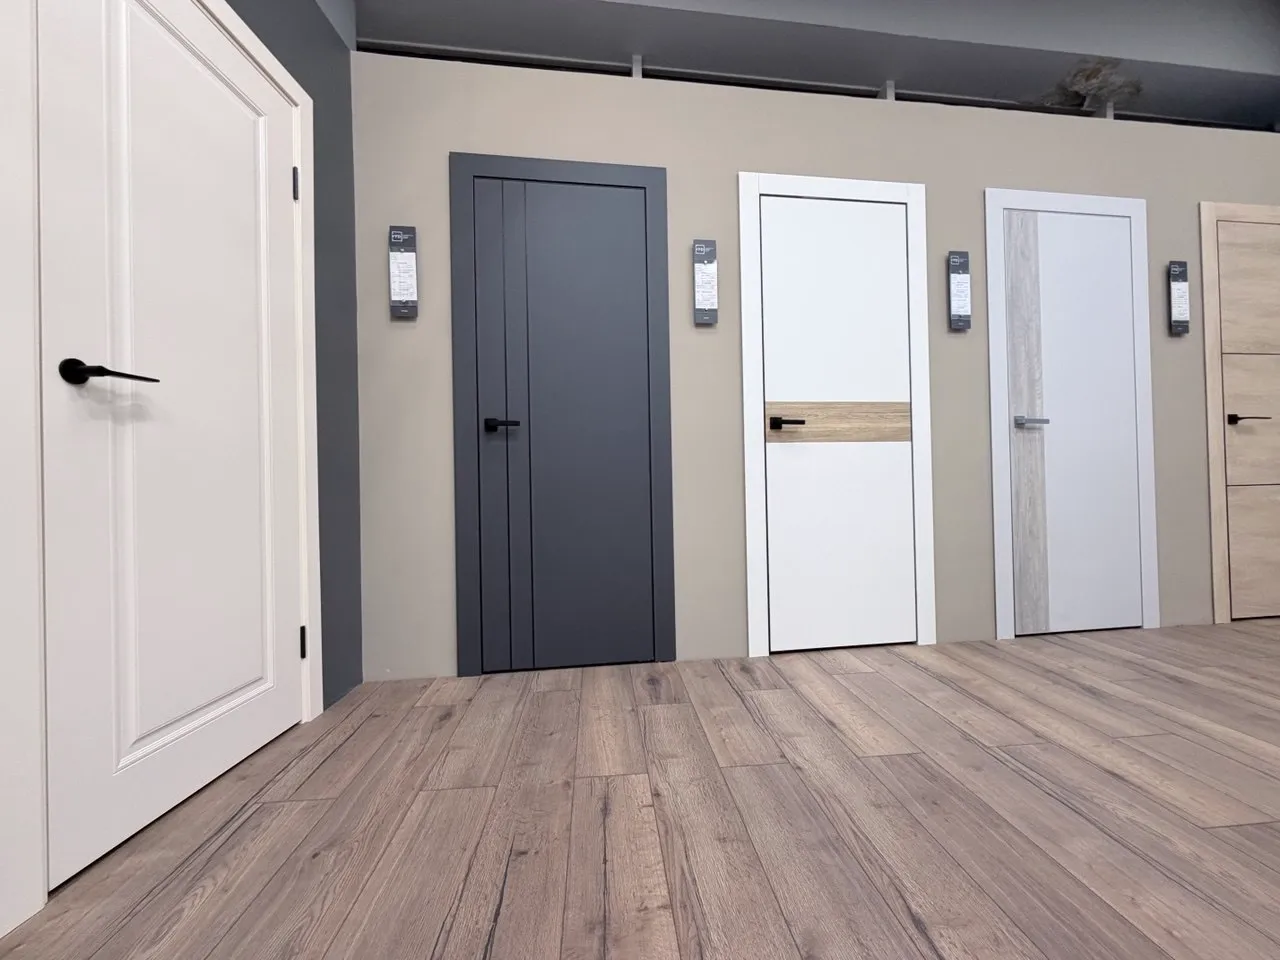
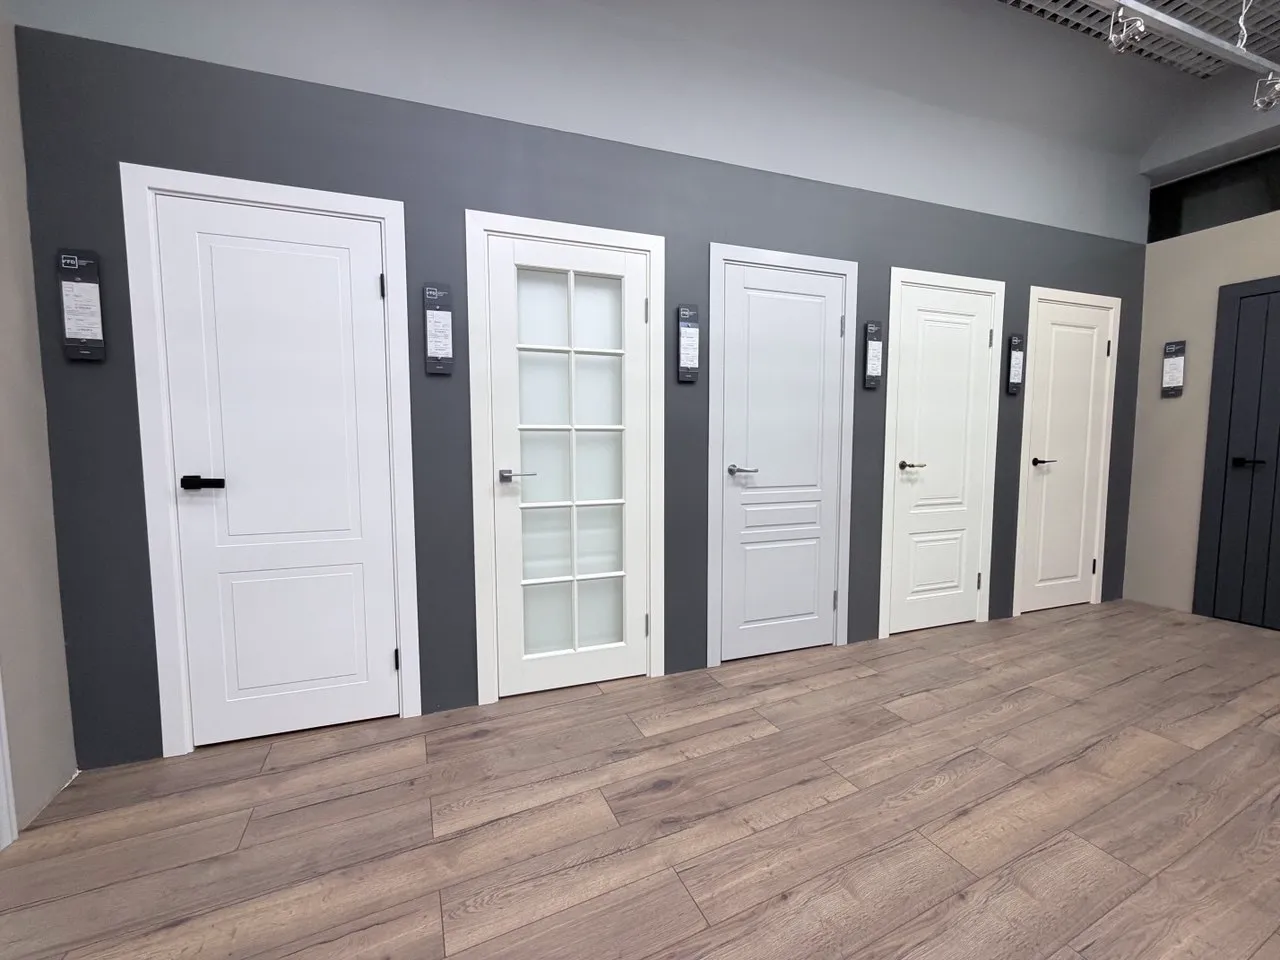
fix(контакты): из галереи салона убраны фото 3, 4, 6; плашка «Консультация» снята вместе с фото

diff --git a/src/data/contacts-page.ts b/src/data/contacts-page.ts
@@ -88,15 +88,12 @@ const { mall, street, floorIn } = SITE.address
 const SALON_TEXT: Record<number, { alt: string; chip?: string }> = {
   1: { alt: `Вход в салон ${SITE.studioNameOf}: вывеска «Фабрика дверей VFD» ${floorIn} ${mall}, ${street}`, chip: 'Вход' },
   2: { alt: `Вход в салон ${SITE.studioNameOf} с галереи ${mall}: стеклянная дверь в зелёной раме` },
-  3: { alt: `Вид в салон от входа: образцы межкомнатных дверей, стенд дверных ручек и стол менеджера в ${SITE.studioNameOf}`, chip: 'Консультация' },
-  4: { alt: `Палитра цветов и образцы покрытий для дверей на столе в ${SITE.studioNameOf}` },
-  5: { alt: 'Графитовая, белая со вставкой под дерево и дверь под светлое дерево на стене шоурума' },
-  6: { alt: 'Белые, графитовая и остеклённая межкомнатные двери на стене шоурума' },
-  7: { alt: 'Белые филёнчатые и остеклённые двери и графитовая дверь на стене шоурума' },
-  8: { alt: 'Белые межкомнатные двери в ряд у серой стены шоурума, одна со стеклом в раскладке' },
-  9: { alt: `Стенды дверных ручек Punto, Fuaro, Bussare и Morelli в ${SITE.studioNameOf}` },
-  10: { alt: `Шоурум ${SITE.studioNameOf}: межкомнатные двери ВФД — белые филёнчатые, графитовая и белая со вставкой под дерево` },
-  11: { alt: 'Белые филёнчатые и остеклённые двери на тёмно-серой стене шоурума' },
+  3: { alt: 'Графитовая, белая со вставкой под дерево и дверь под светлое дерево на стене шоурума' },
+  4: { alt: 'Белые филёнчатые и остеклённые двери и графитовая дверь на стене шоурума' },
+  5: { alt: 'Белые межкомнатные двери в ряд у серой стены шоурума, одна со стеклом в раскладке' },
+  6: { alt: `Стенды дверных ручек Punto, Fuaro, Bussare и Morelli в ${SITE.studioNameOf}` },
+  7: { alt: `Шоурум ${SITE.studioNameOf}: межкомнатные двери ВФД — белые филёнчатые, графитовая и белая со вставкой под дерево` },
+  8: { alt: 'Белые филёнчатые и остеклённые двери на тёмно-серой стене шоурума' },
 }
 /** Кадры в превью (остальные — в окне просмотра): вход крупно, затем
     дверь и вид внутрь, затем место консультации */

diff --git a/assets/salon/README.md b/assets/salon/README.md
@@ -1,7 +1,7 @@
-# Фото салона «Студии Зизевского»: вход и место консультации
+# Фото салона «Студии Зизевского» (ТЦ «Компас»)
 
-Фото от владельца (17.10.2026), 6 кадров 900×1200: 01–04 — вход в салон
-с галереи 3 этажа ТЦ «Компас», 05–06 — место консультации. Исходники
+Фото салона и шоурума, 8 кадров: 01–02 — вход в салон с галереи 3 этажа
+ТЦ «Компас», 03–08 — кадры шоурума. Исходники
 пришли PNG, здесь — WebP q92.
 
 `npm run gen:showroom` → `public/renders/contacts/salon-N-{480,900}.webp`
